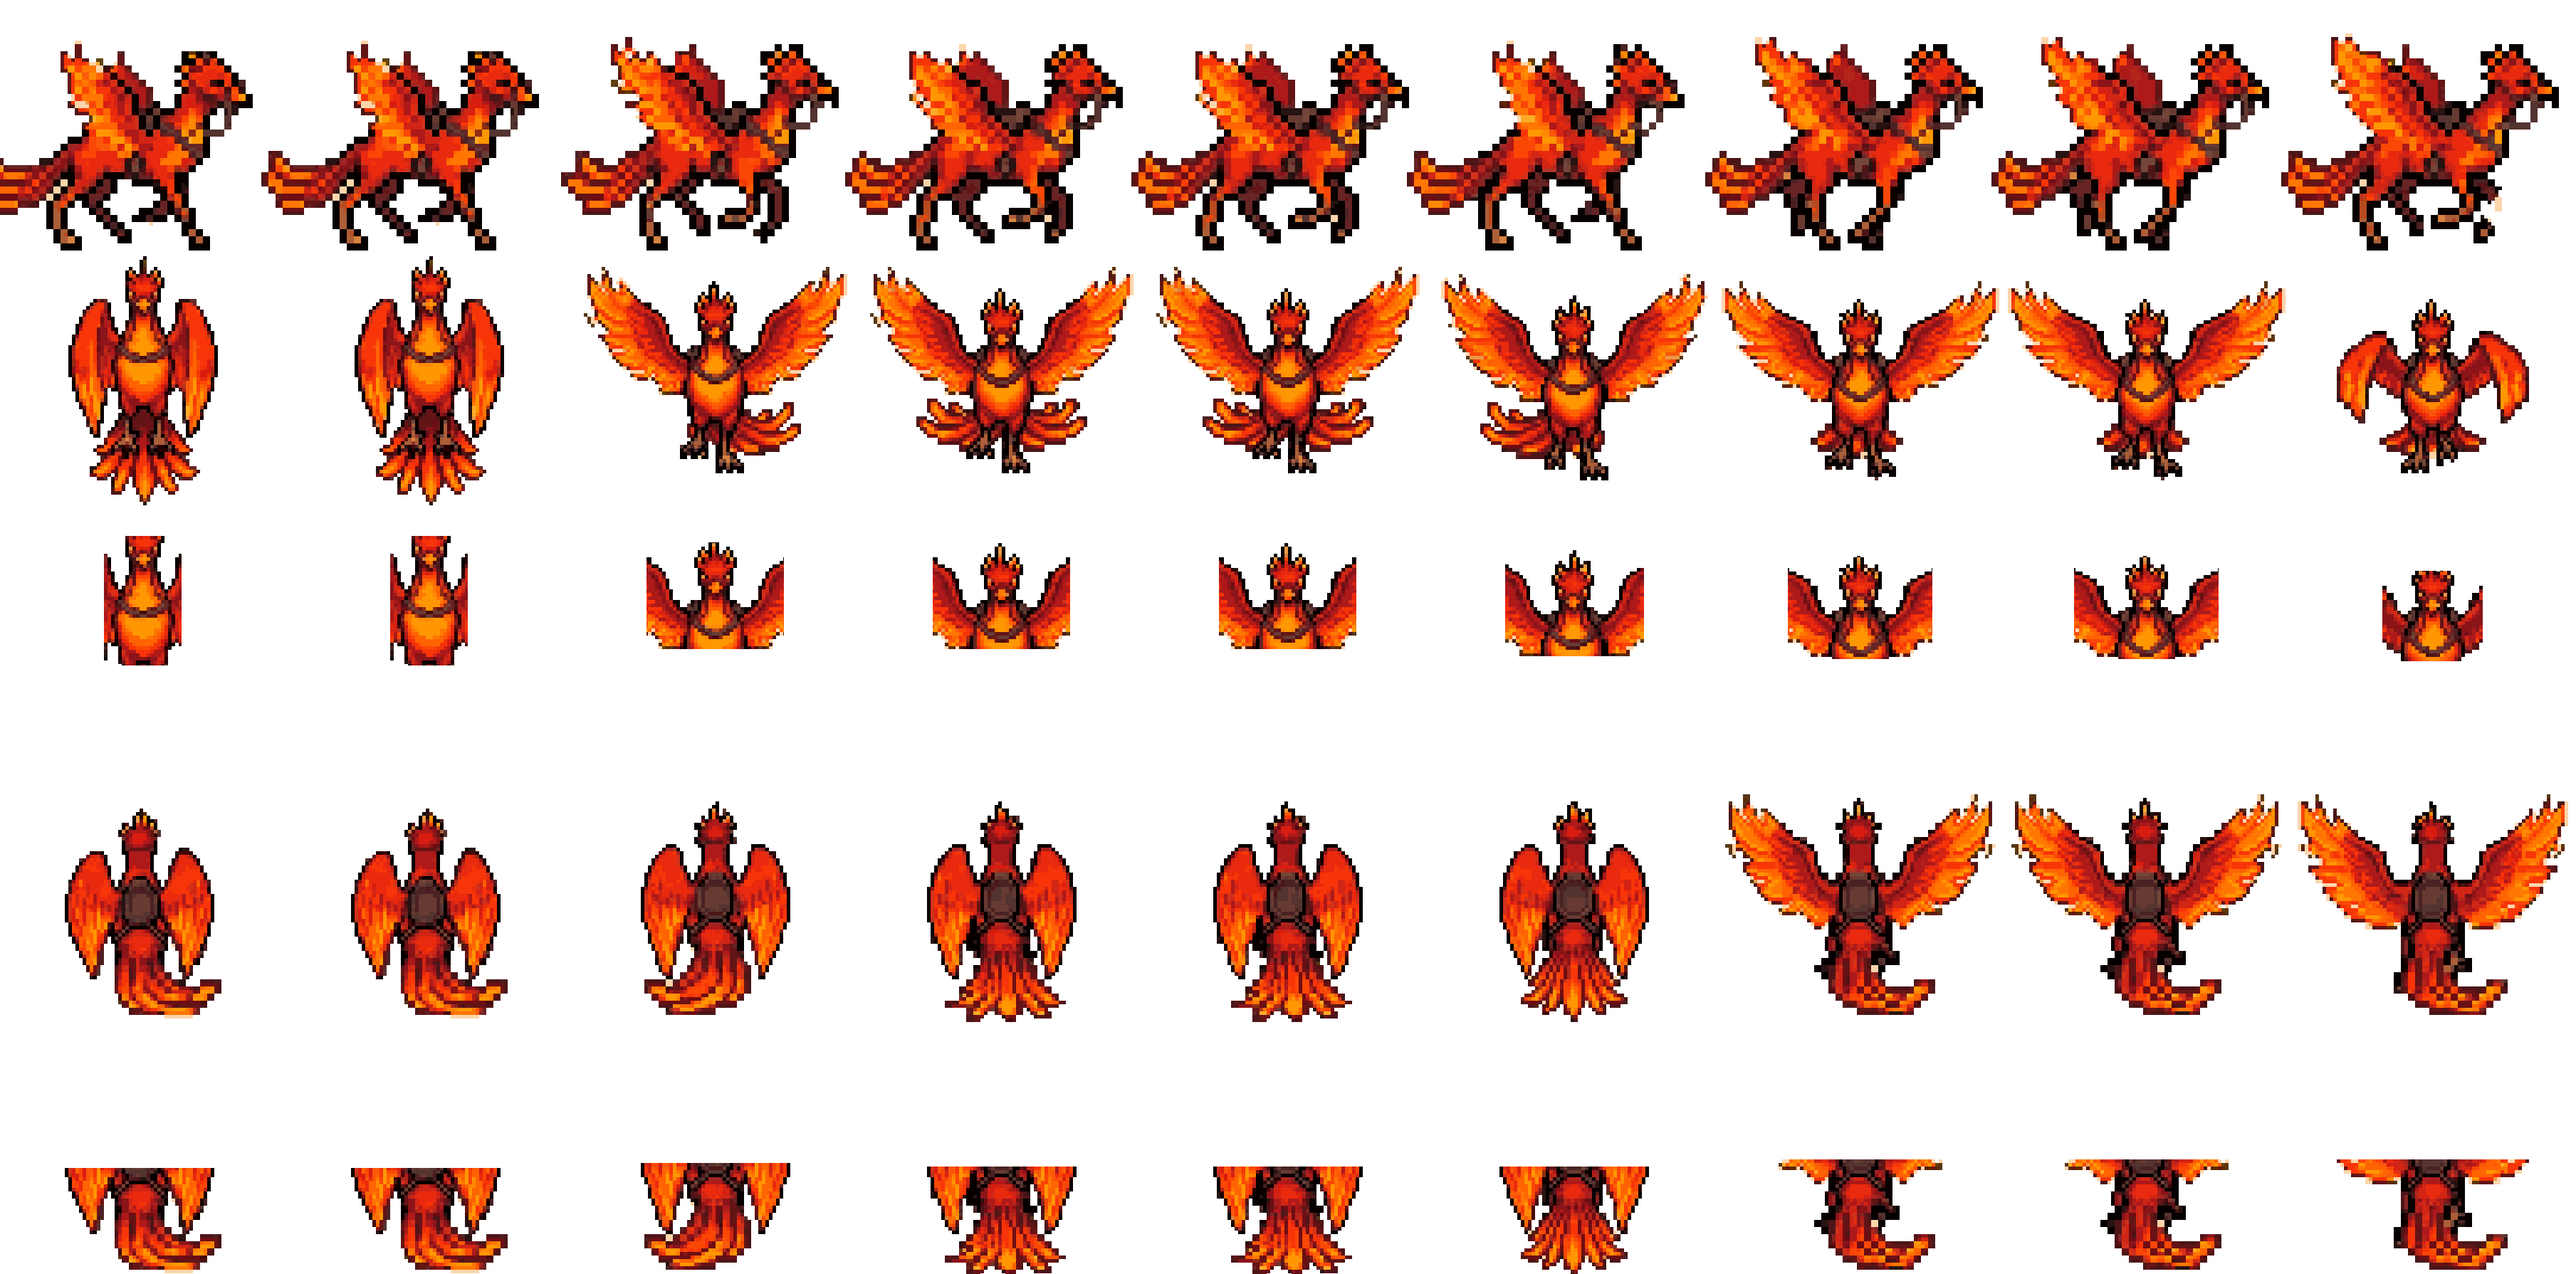
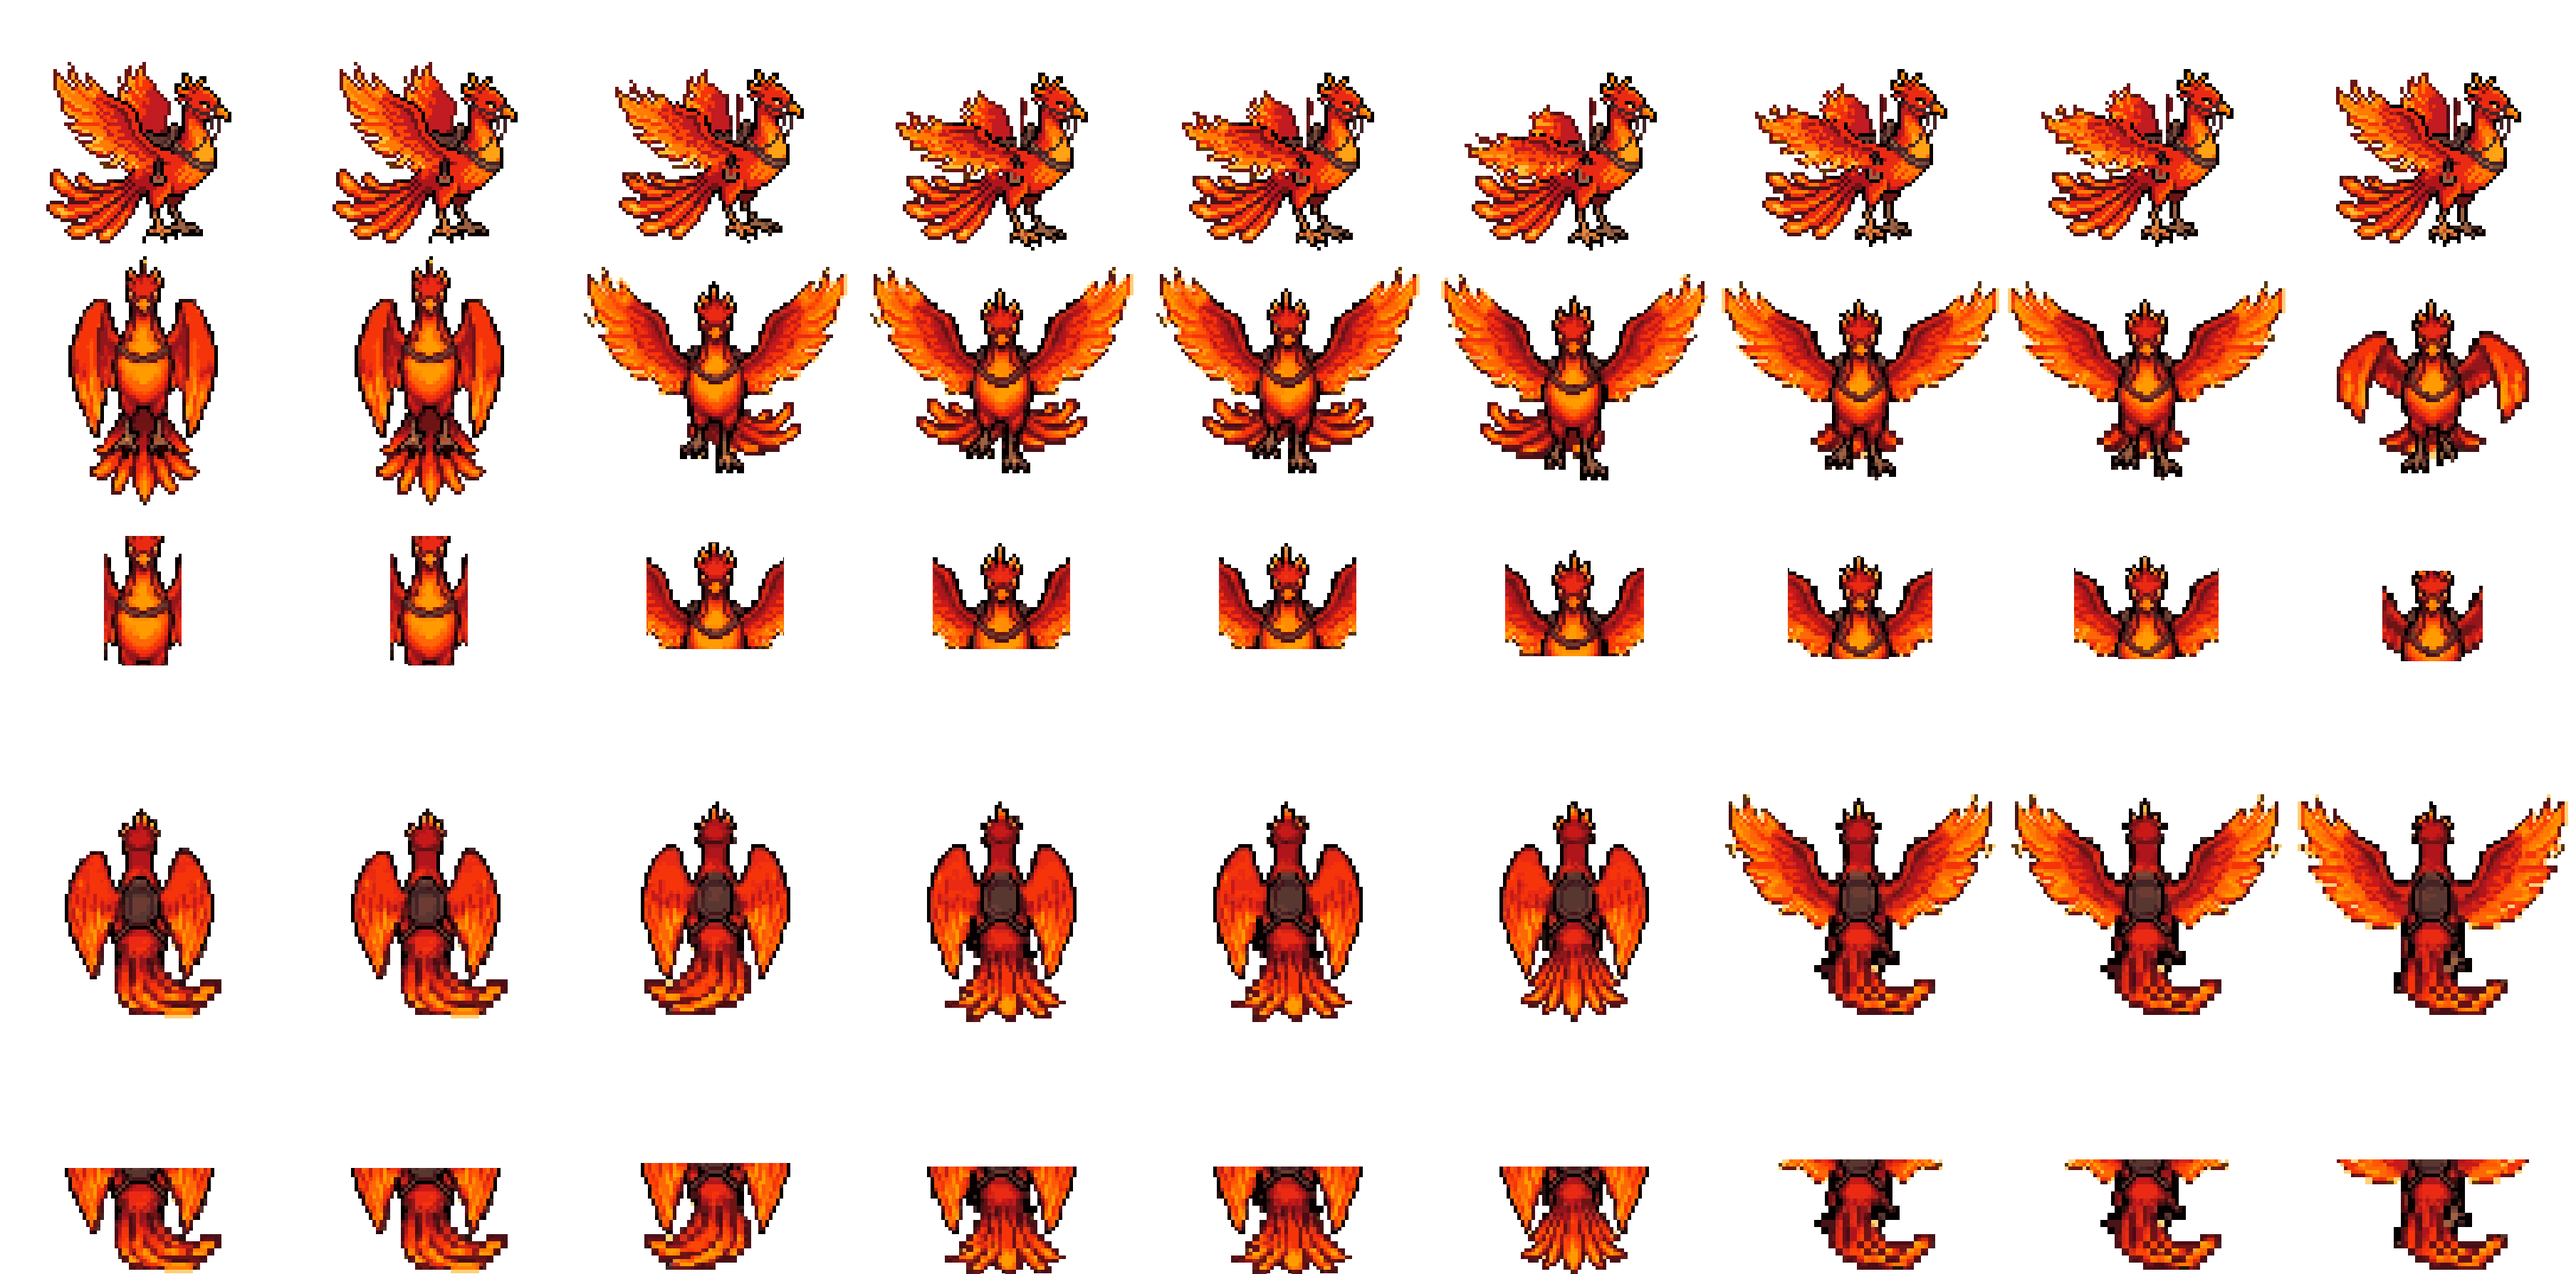
Phuong Hoang side view: two-legged bird from the provided art
tools/mount_art/phoenix_side.py turns the single side image into 6
frames (alternating legs, wing flap folding toward the tail, body bob);
pixfix.prepare accepts a per-frame block size.

Claude-Session: https://claude.ai/code/session_01AqWtbjMjwaw5KPYKGcCy7Z

diff --git a/server/data/changelog.js b/server/data/changelog.js
@@ -4,6 +4,7 @@ const CHANGELOG = [
   {
     date: '02/11/2026',
     items: [
+      '🔥 Phượng Hoàng nhìn ngang vẽ lại đúng dáng chim hai chân: bước chân luân phiên, cánh lửa vỗ theo nhịp, người cưỡi ngồi trên lưng.',
       '✨ Làm nét lại hình 7 thú cưỡi vẽ tay (Hắc Mã, Bạch Mã, Hỏa Kỳ Lân, Thanh Long, Phượng Hoàng, Kim Quy, Kim Ngưu): cắt sạch nền và chấm thừa, khôi phục từng điểm ảnh, viền rõ, màu tươi hơn – không còn bị mờ nhòe.',
       '🐢 Kim Quy và Kim Ngưu có hình 4 hướng mới vẽ tay: mặt trước, sau lưng, nhìn ngang với dáng bước chậm chắc.',
       '🐉 Thanh Long và Phượng Hoàng có hình 4 hướng mới vẽ tay: dang cánh vỗ theo nhịp ở mọi hướng (cả lúc đứng yên), đuôi uốn lượn khi bay.',

diff --git a/tools/mount_art/phoenix_side.py b/tools/mount_art/phoenix_side.py
@@ -1,0 +1,79 @@
+# Phượng Hoàng nhìn ngang (chim 2 chân) từ 1 hình người dùng gửi -> 6 khung bay/chạy: 2 chân bước luân phiên, cánh vỗ, thân nhún.
+#   python3 phoenix_side.py <ảnh gốc>   -> phuong_hoang_src/side_0..5.png (lưới ô x8) + offsets; sau đó: python3 fourdir.py build phuong_hoang
+import json, math, os, sys
+import numpy as np
+from PIL import Image
+from scipy import ndimage as nd
+import pixfix as P
+HERE = os.path.dirname(os.path.abspath(__file__)); OUTD = os.path.join(HERE, 'phuong_hoang_src')
+PADX, PADY, UP = 8, 8, 8
+
+def extract(path):
+    a = np.asarray(Image.open(path).convert('RGB')).astype(int); mx, mn = a.max(2), a.min(2)
+    fg = ((mx - mn) > 42) | (mx < 115)
+    fg &= ~(((mx - mn) < 62) & (mn > 120) & (a[..., 1] - a[..., 2] > 18))   # bóng chân
+    fg = nd.binary_opening(fg, iterations=2)
+    lab, n = nd.label(fg); sz = nd.sum(fg, lab, range(1, n + 1))
+    keep = np.isin(lab, [i + 1 for i, z in enumerate(sz) if z > 3000])
+    ys, xs = np.nonzero(keep); y0, y1, x0, x1 = ys.min(), ys.max() + 1, xs.min(), xs.max() + 1
+    im = Image.fromarray(np.dstack([a[y0:y1, x0:x1].astype(np.uint8), (keep[y0:y1, x0:x1] * 255).astype(np.uint8)]), 'RGBA')
+    nat, _ = P.native(im, P.period(im, 15, 50))
+    return np.asarray(nat).copy()     # quay trái (đầu bên trái)
+
+def frames(base):
+    h, w = base.shape[:2]
+    cv = np.zeros((h + 2 * PADY, w + 2 * PADX, 4), np.uint8); cv[PADY:PADY + h, PADX:PADX + w] = base
+    H, W = cv.shape[:2]; yy, xx = np.mgrid[0:H, 0:W]; al = cv[..., 3] > 0
+    # chân: phần dưới thân, phía đầu (đuôi chiếm nửa sau)
+    hip = PADY + int(h * 0.76); legzone = al & (yy >= hip) & (xx < PADX + int(w * 0.47))
+    lab, n = nd.label(legzone); sz = nd.sum(legzone, lab, range(1, n + 1))
+    legs = sorted([(np.nonzero(lab == i + 1)[1].mean(), lab == i + 1) for i in range(n) if sz[i] > 6], key=lambda t: t[0])[:2]
+    # cánh: nửa trên, sau cổ
+    wing = al & (yy <= PADY + int(h * 0.60)) & (xx >= PADX + int(w * 0.38))
+    piv = (PADX + int(w * 0.44), PADY + int(h * 0.50))
+    body = cv.copy()
+    for _, m in legs: body[m] = 0
+    wpx = cv.copy(); wpx[~wing] = 0; body[wing] = 0
+    # vá thân dưới gốc cánh (lộ ra khi cánh hạ): tô màu thân đỏ sẫm trong vùng thân
+    bal = body[..., 3] > 0
+    inside = nd.binary_fill_holes(nd.binary_closing(bal, iterations=5)) & wing & (yy >= piv[1] - 4)
+    _, (iy, ix) = nd.distance_transform_edt(~bal, return_indices=True)   # vá bằng màu lông thân gần nhất
+    body[inside] = body[iy[inside], ix[inside]]
+    FLAP = [(0, 1.0), (8, .9), (17, .76), (24, .64), (15, .78), (6, .92)]   # (độ hạ cánh, độ ép dọc)
+    out = []
+    for k in range(6):
+        ph = 2 * math.pi * k / 6; bob = 1 if k in (1, 4) else 0
+        fr = np.zeros_like(cv)
+        sh = np.roll(body, -bob, 0); m = sh[..., 3] > 0; fr[m] = sh[m]
+        for li, (_, lm) in enumerate(legs):   # chân: lắc trước/sau quanh hông, chân đang đưa lên nhấc khỏi đất
+            s = math.sin(ph + li * math.pi); lift = max(0.0, math.cos(ph + li * math.pi)) * 2
+            ys_, xs_ = np.nonzero(lm); top = ys_.min(); L = max(1, ys_.max() - top)
+            for y, x in zip(ys_, xs_):
+                t = (y - top) / L; nx = int(round(x - s * 3 * t)); ny = int(round(y - bob - lift * t))
+                if 0 <= nx < W and 0 <= ny < H: fr[ny, nx] = cv[y, x]
+        th, sc = FLAP[k]; c, s_ = math.cos(math.radians(-th)), math.sin(math.radians(-th))   # hạ cánh về phía đuôi
+        dx, dy = xx - piv[0], yy - piv[1] + bob
+        sx = c * dx - s_ * dy; sy = (s_ * dx + c * dy) / sc     # ánh xạ ngược: xoay cánh quanh gốc + ép dọc
+        srcx = np.round(sx + piv[0]).astype(int); srcy = np.round(sy + piv[1]).astype(int)
+        ok = (srcx >= 0) & (srcx < W) & (srcy >= 0) & (srcy < H)
+        wl = np.zeros_like(cv); wl[ok] = wpx[srcy[ok], srcx[ok]]; m2 = wl[..., 3] > 0; fr[m2] = wl[m2]
+        alf = fr[..., 3] > 0; lab, n = nd.label(alf, structure=np.ones((3, 3)))
+        if n > 1:
+            sz = nd.sum(alf, lab, range(1, n + 1)); fr[np.isin(lab, [i + 1 for i, z in enumerate(sz) if z < 6]), 3] = 0
+        out.append(fr[:, ::-1])      # quay phải
+    return out
+
+if __name__ == '__main__':
+    base = extract(sys.argv[1])
+    Image.fromarray(base, 'RGBA').save(os.path.join(OUTD, 'side_base.png'))
+    fr = frames(base)
+    off = json.load(open(os.path.join(OUTD, 'offsets.json')))
+    for k in range(8):
+        p = os.path.join(OUTD, f'side_{k}.png')
+        if os.path.exists(p): os.remove(p)
+        off.pop(f'side_{k}', None)
+    for k, f in enumerate(fr):
+        P.up(Image.fromarray(f, 'RGBA'), UP).save(os.path.join(OUTD, f'side_{k}.png'))
+        off[f'side_{k}'] = 0
+    json.dump(off, open(os.path.join(OUTD, 'offsets.json'), 'w'))
+    print('ok', len(fr), fr[0].shape)

diff --git a/tools/mount_art/fourdir.py b/tools/mount_art/fourdir.py
@@ -19,7 +19,7 @@ CFG = {
     'bach_ma': dict(h=100, front=6, back=3, side=7, seat_fx=0.40, seat_dy=8, down=0.16, cut=0.44, ftop=0.15, shadow=None, hole=(9, 250)),
     # mask='color': nền xám nhạt nhiều tông + bóng chân -> lấy điểm ảnh đậm màu/tối làm hình; fly: cánh vỗ cả lúc đứng yên
     'thanh_long': dict(h=118, front=6, back=6, side=6, seat_fx=0.50, seat_dy=8, down=0.07, cut=0.46, ftop=0.10, shadow=None, hole=(20, 60), mask='color', fly=True),
-    'phuong_hoang': dict(h=122, front=6, back=6, side=6, seat_fx=0.55, seat_dy=8, down=0.12, cut=0.50, ftop=0.10, shadow=None, hole=(20, 60), mask='color', fly=True),
+    'phuong_hoang': dict(h=122, front=6, back=6, side=6, side_b=8, seat_fx=0.62, seat_dy=8, down=0.12, cut=0.50, ftop=0.10, shadow=None, hole=(20, 60), mask='color', fly=True),
     # fy/fx: vùng lớp đè người cưỡi ở hướng trước (tỉ lệ cao/rộng); rùa: chỉ đầu + chân trước, bò: cả cặp sừng rộng
     'kim_quy': dict(h=82, front=6, back=6, side=5, seat_fx=0.52, seat_dy=6, down=0.04, cut=0.72, up=0.14, ftop=0.0, fy=(0.58, 1.0), fx=(0.15, 0.85), shadow=(159, 160, 139), hole=(20, 60)),
     'kim_nguu': dict(h=96, front=6, back=6, side=5, seat_fx=0.45, seat_dy=6, down=0.22, cut=0.42, ftop=0.0, fy=(0.38, 0.95), fx=(0.0, 1.0), shadow=(181, 154, 145), hole=(20, 60)),
@@ -88,7 +88,8 @@ def build(mid):
     raw = lambda nm: Image.open(os.path.join(src, nm + '.png')).convert('RGBA')
     names = [f'side_{k}' for k in range(cfg['side'])] + [f'front_{k}' for k in range(cfg['front'])] + [f'back_{k}' for k in range(cfg['back'])]
     # khôi phục pixel art: về lưới ô gốc (~4,16px ở ảnh 2000px), bảng màu chung, viền rõ, phóng bội số nguyên
-    fr, SCALE = pixfix.prepare({nm: raw(nm) for nm in names}, off, cfg.get('b', 4.16), cfg['h'], names[:cfg['side']], cfg.get('colors', 112))
+    bsz = lambda nm: cfg['side_b'] if nm.startswith('side') and 'side_b' in cfg else cfg.get('b', 4.16)
+    fr, SCALE = pixfix.prepare({nm: raw(nm) for nm in names}, off, bsz, cfg['h'], names[:cfg['side']], cfg.get('colors', 112))
     K = SCALE
     side = [fr[f'side_{k}'] for k in range(cfg['side'])]
     front = [fr[f'front_{k}'] for k in range(cfg['front'])]

diff --git a/tools/mount_art/pixfix.py b/tools/mount_art/pixfix.py
@@ -82,7 +82,8 @@ def prepare(raws, offs, b, h_side, side_names, colors=112):
     """raws: {tên: ảnh gốc}, offs: {tên: khoảng cách tới đỉnh hàng (px gốc)} -> ({tên: (ảnh sheet, off sheet)}, scale)"""
     nat = {}
     for nm, im in raws.items():
-        n_, (ox, oy) = native(im, b); nat[nm] = (enhance(n_), (offs[nm] + oy) / b)
+        bb = b(nm) if callable(b) else b   # cỡ ô có thể khác theo khung (vd. hình ngang vẽ riêng)
+        n_, (ox, oy) = native(im, bb); nat[nm] = (enhance(n_), (offs[nm] + oy) / bb)
     pal = palette([v[0] for v in nat.values()], colors)
     hn = float(np.median([nat[nm][0].height for nm in side_names]))
     n = max(2, math.ceil(2 * h_side / hn))
